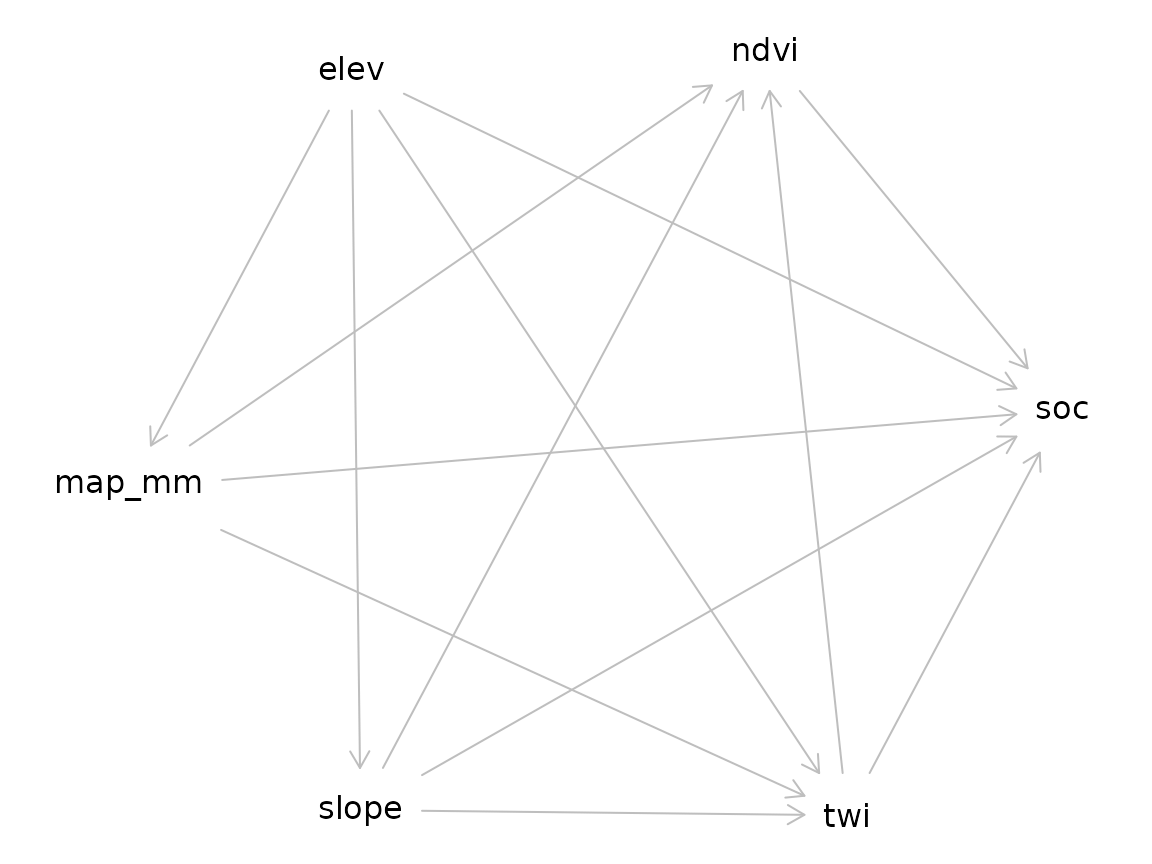
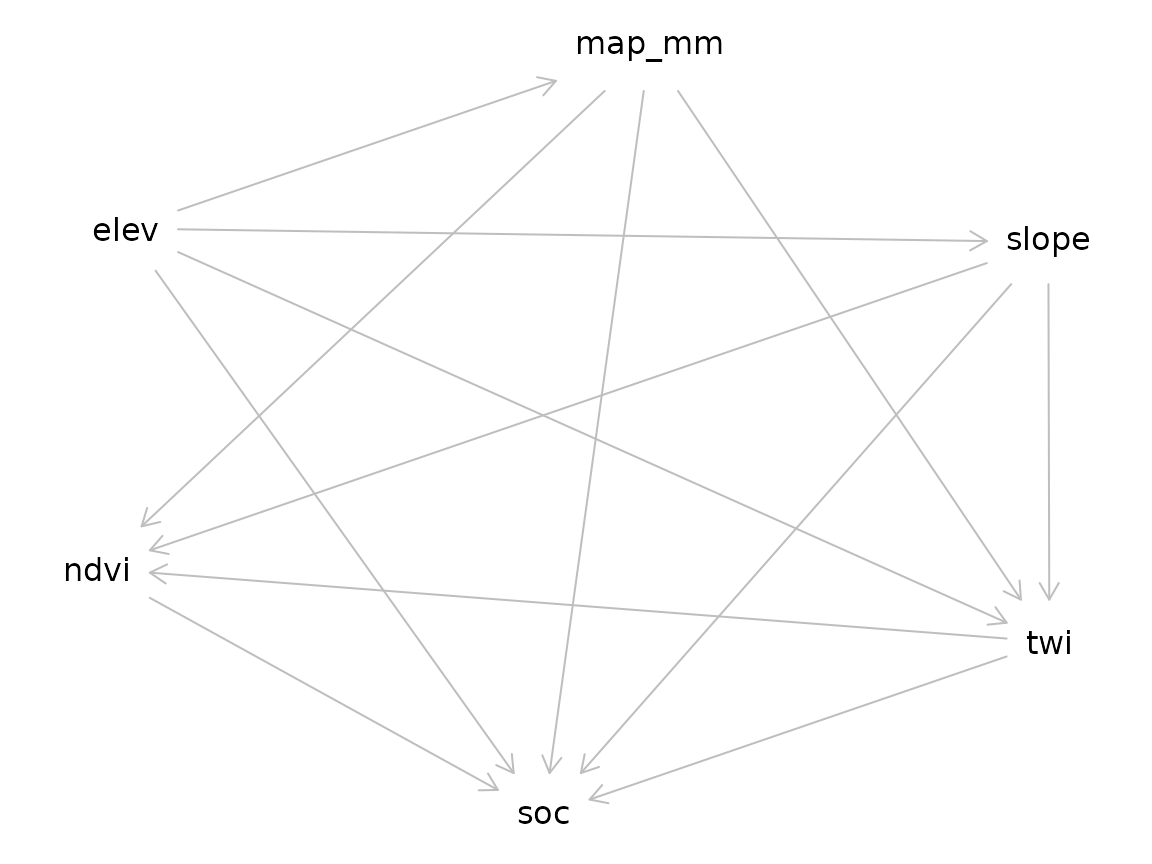
Deploying to gh-pages from @ HugoMachadoRodrigues/edaphos@3db50635c5babb74ea8075aec52069da38f48d03 🚀

diff --git a/reference/causal_kg_new.html b/reference/causal_kg_new.html
@@ -124,7 +124,7 @@ directed <code>igraph</code>.</p>
 <span class="r-out co"><span class="r-pr">#&gt;</span>                                                    evidence confidence</span>
 <span class="r-out co"><span class="r-pr">#&gt;</span> 1 Higher precipitation favours organic-matter accumulation.        0.9</span>
 <span class="r-out co"><span class="r-pr">#&gt;</span>              timestamp</span>
-<span class="r-out co"><span class="r-pr">#&gt;</span> 1 2026-04-26T13:01:04Z</span>
+<span class="r-out co"><span class="r-pr">#&gt;</span> 1 2026-04-26T13:21:58Z</span>
 <span class="r-in"><span><span class="co"># }</span></span></span>
 </code></pre></div>
     </div>

diff --git a/reference/causal_kg_new.md b/reference/causal_kg_new.md
@@ -36,6 +36,6 @@ An `edaphos_causal_kg` object (S3) containing an empty directed
 #>                                                    evidence confidence
 #> 1 Higher precipitation favours organic-matter accumulation.        0.9
 #>              timestamp
-#> 1 2026-04-26T13:01:04Z
+#> 1 2026-04-26T13:21:58Z
 # }
 ```